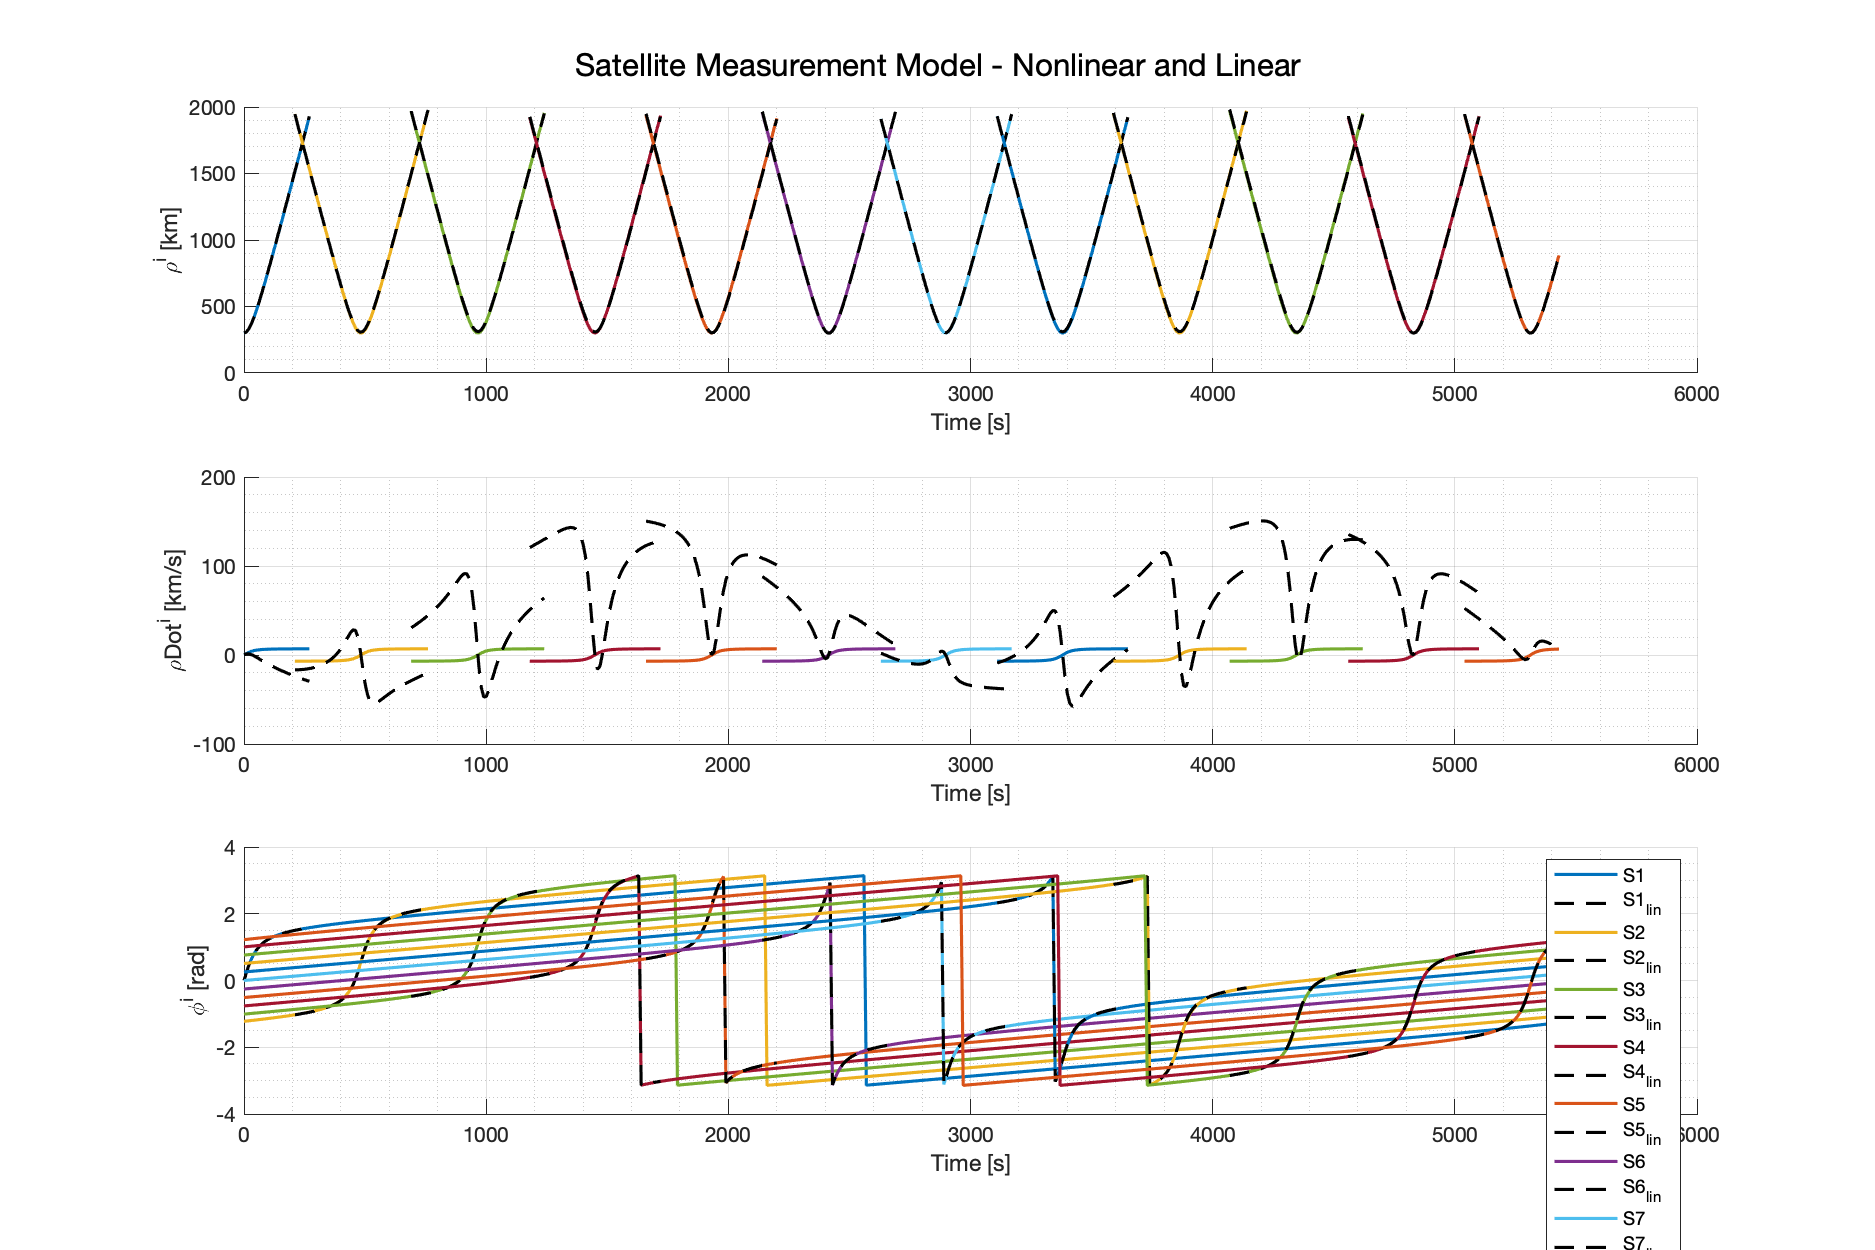
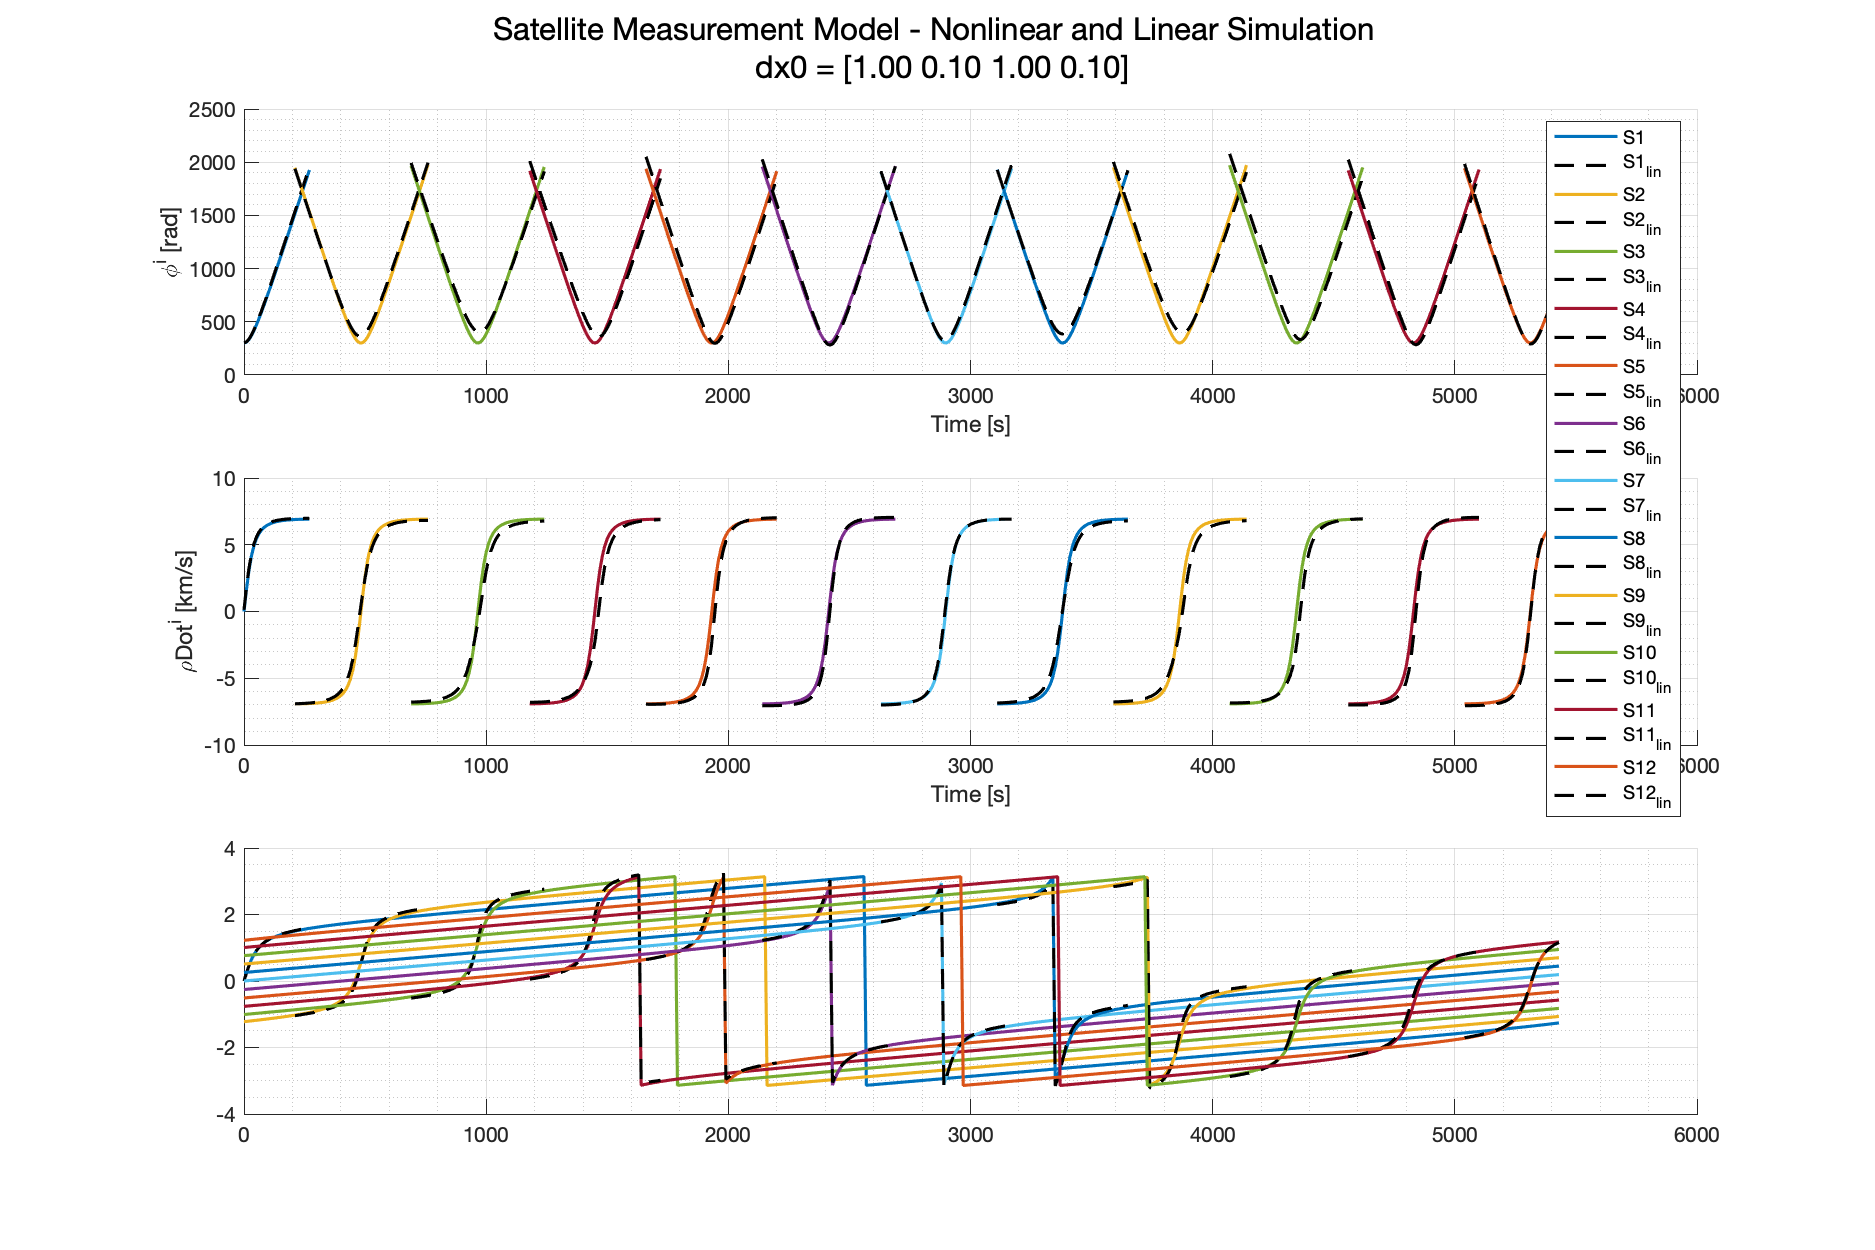
changes to plotting. should be just about good to go

diff --git a/ASEN5044_HW8_problem2.m b/ASEN5044_HW8_problem2.m
@@ -86,10 +86,8 @@ end
 
 dt = 10;
 
-% Nominalize the A matrix
-delta_x = [0 0 0 0]';
-
-dx = [0.01, 0.01, 0.01, 0.01]';
+% Nominalize the A matrix. starting with initial perturbance
+dx = [1, 0.1, 1, 0.1]';
 dx_lin = [];
 dy_lin = zeros(36,length(T));
 for t = 1:length(t_vec)
@@ -124,7 +122,7 @@ fprintf("x0 = [6678, 0, 0, 7.7258]'");
 
 fig = figure('visible','on');
 set(fig,'Position',[100 100 900 600]);
-sgtitle('Satellite State');
+sgtitle(sprintf('Satellite State Model - Nonlinear and Linear Simulation \n dx0 = [%.2f %.2f %.2f %.2f]',dx(1,1),dx(2,1),dx(3,1),dx(4,1)));
 
 subplot(2,2,1); hold on; grid on; grid minor;
 plot(T,S(:,1),'b-','LineWidth',1.5);
@@ -164,7 +162,7 @@ saveas(fig,'ASEN5044_HW8_P2_sim.png','png');
 
 fig = figure('visible','on');
 set(fig,'Position',[100 100 900 600]);
-sgtitle('Satellite State - Linearized');
+sgtitle(sprintf('Satellite State Model - Linearized Deviations \n dx0 = [%.2f %.2f %.2f %.2f]',dx(1,1),dx(2,1),dx(3,1),dx(4,1)));
 
 subplot(2,2,1); hold on; grid on; grid minor;
 plot(t_vec,dx_lin(:,1),'r--','LineWidth',1.5);
@@ -194,14 +192,7 @@ saveas(fig,'ASEN5044_HW8_P2_lin.png','png');
 
 fig = figure('visible','on'); 
 set(fig,'Position',[100 100 900 600]);
-sgtitle('Satellite Measurement Model - Nonlinear and Linear');
-subplot(3,1,1); hold on; grid on; grid minor;
-for i=1:12
-    plot(T,rho(i,:),'-','LineWidth',1.5)
-    plot(T,rho(i,:) + dy_lin(3*i-2,:),'k--','LineWidth',1.5)
-end
-xlabel('Time [s]'); ylabel('\rho^i [km]')
-
+sgtitle(sprintf('Satellite Measurement Model - Nonlinear and Linear Simulation \n dx0 = [%.2f %.2f %.2f %.2f]',dx(1,1),dx(2,1),dx(3,1),dx(4,1)));
 subplot(3,1,2); hold on; grid on; grid minor;
 for i=1:12
     plot(T,rhoDot(i,:),'-','LineWidth',1.5)
@@ -214,6 +205,12 @@ for i=1:12
     plot(T,phi(i,:),'-','LineWidth',1.5)
     plot(T,phi(i,:) + dy_lin(3*i,:),'k--','LineWidth',1.5)
 end
+subplot(3,1,1); hold on; grid on; grid minor;
+for i=1:12
+    plot(T,rho(i,:),'-','LineWidth',1.5)
+    plot(T,rho(i,:) + dy_lin(3*i-2,:),'k--','LineWidth',1.5)
+end
+xlabel('Time [s]'); ylabel('\rho^i [km]')
 legend('S1','S1_{lin}','S2','S2_{lin}','S3','S3_{lin}','S4','S4_{lin}','S5','S5_{lin}'...
     ,'S6','S6_{lin}','S7','S7_{lin}','S8','S8_{lin}','S9','S9_{lin}'...
     ,'S10','S10_{lin}','S11','S11_{lin}','S12','S12_{lin}')
@@ -224,23 +221,21 @@ saveas(fig,'ASEN5044_HW8_P2_MeasurementModel.png','png');
 
 fig = figure('visible','on'); 
 set(fig,'Position',[100 100 900 600]);
-sgtitle('Satellite Measurement Model - Nonlinear and Linear');
-subplot(3,1,1); hold on; grid on; grid minor;
-for i=1:12
-    plot(T,dy_lin(3*i-2,:),'k--','LineWidth',1.5)
-end
-xlabel('Time [s]'); ylabel('\delta\rho^i [km]')
-
+sgtitle(sprintf('Satellite Measurement Model - Linearized Deviations \n dx0 = [%.2f %.2f %.2f %.2f]',dx(1,1),dx(2,1),dx(3,1),dx(4,1)));
 subplot(3,1,2); hold on; grid on; grid minor;
 for i=1:12
     plot(T,dy_lin(3*i-1,:),'k--','LineWidth',1.5)
 end
 xlabel('Time [s]'); ylabel('\delta\rhoDot^i [km/s]')
-
 subplot(3,1,3); hold on; grid on; grid minor;
 for i=1:12
     plot(T,dy_lin(3*i,:),'k--','LineWidth',1.5)
 end
+subplot(3,1,1); hold on; grid on; grid minor;
+for i=1:12
+    plot(T,dy_lin(3*i-2,:),'k--','LineWidth',1.5)
+end
+xlabel('Time [s]'); ylabel('\delta\rho^i [km]')
 legend('S1_{lin}','S2_{lin}','S3_{lin}','S4_{lin}','S5_{lin}'...
     ,'S6_{lin}','S7_{lin}','S8_{lin}','S9_{lin}'...
     ,'S10_{lin}','S11_{lin}','S12_{lin}')
@@ -286,26 +281,26 @@ end
 
 
 function [ H ] = H_variant(X,Xdot,Y,Ydot,Xs,Xsdot,Ys,Ysdot)
-
-H = [2*sqrt(X-Xs), 0, 2*sqrt(Y-Ys), 0;
-        ((Xdot-Xsdot)/(sqrt((X-Xs)^2+(Y-Ys)^2)))-((2*(X-Xs)*((X-Xs)*(Xdot-Xsdot)+(Y-Ys)*(Ydot-Ysdot)))/(sqrt((X-Xs)^2+(Y-Ys)^2)^2)),...
-        ((X-Xs)/(sqrt((X-Xs)^2+(Y-Ys)^2))),...
-        -((2*(Y-Ys)*((X-Xs)*(Xdot-Xsdot)+(Y-Ys)*(Ydot-Ysdot)))/(sqrt((X-Xs)^2+(Y-Ys)^2)^2))+((Ydot-Ysdot)/(sqrt((X-Xs)^2+(Y-Ys)^2))),...
-        ((Y-Ys)/(sqrt((X-Xs)^2+(Y-Ys)^2)));...
-        ((Y-Ys)/((X-Xs)^2+(Y-Ys)^2)),0,...
-        ((-X+Xs)/((X-Xs)^2+(Y-Ys)^2)),0];
-   
-%Jake changes to first row of H
-H = [(X-Xs)/sqrt((X-Xs)^2+(Y-Ys)^2), 0, (Y-Ys)/sqrt((X-Xs)^2+(Y-Ys)^2), 0;
-        ((Xdot-Xsdot)/(sqrt((X-Xs)^2+(Y-Ys)^2)))-((2*(X-Xs)*((X-Xs)*(Xdot-Xsdot)+(Y-Ys)*(Ydot-Ysdot)))/(sqrt((X-Xs)^2+(Y-Ys)^2)^2)),...
-        ((X-Xs)/(sqrt((X-Xs)^2+(Y-Ys)^2))),...
-        -((2*(Y-Ys)*((X-Xs)*(Xdot-Xsdot)+(Y-Ys)*(Ydot-Ysdot)))/(sqrt((X-Xs)^2+(Y-Ys)^2)^2))+((Ydot-Ysdot)/(sqrt((X-Xs)^2+(Y-Ys)^2))),...
-        ((Y-Ys)/(sqrt((X-Xs)^2+(Y-Ys)^2)));...
-        ((Y-Ys)/((X-Xs)^2+(Y-Ys)^2)),0,...
-        ((-X+Xs)/((X-Xs)^2+(Y-Ys)^2)),0];
+%initialize H
+H = zeros(3,4);
     
+%first row
+H(1,1) = (X-Xs)/sqrt((X-Xs)^2+(Y-Ys)^2);
+H(1,2) = 0;
+H(1,3) = (Y-Ys)/sqrt((X-Xs)^2+(Y-Ys)^2);
+H(1,4) = 0;
 
+%second row
+H(2,1) = (Xdot-Xsdot)/sqrt((X-Xs)^2+(Y-Ys)^2) - (X-Xs)*((X-Xs)*(Xdot-Xsdot)+(Y-Ys)*(Ydot-Ysdot)) / ((X-Xs)^2+(Y-Ys)^2)^(3/2);
+H(2,3) = (Ydot-Ysdot)/sqrt((X-Xs)^2+(Y-Ys)^2) - (Y-Ys)*((X-Xs)*(Xdot-Xsdot)+(Y-Ys)*(Ydot-Ysdot)) / ((X-Xs)^2+(Y-Ys)^2)^(3/2);
+H(2,2) = (X-Xs)/sqrt((X-Xs)^2+(Y-Ys)^2);
+H(2,4) = (Y-Ys)/sqrt((X-Xs)^2+(Y-Ys)^2);
     
+%third row
+H(3,1) = ((Y-Ys)/((X-Xs)^2+(Y-Ys)^2));
+H(3,2) = 0;
+H(3,3) = ((-X+Xs)/((X-Xs)^2+(Y-Ys)^2));
+H(3,4) = 0;
 end
 
 function [ ds ] = orbit_prop_func(t,s)
